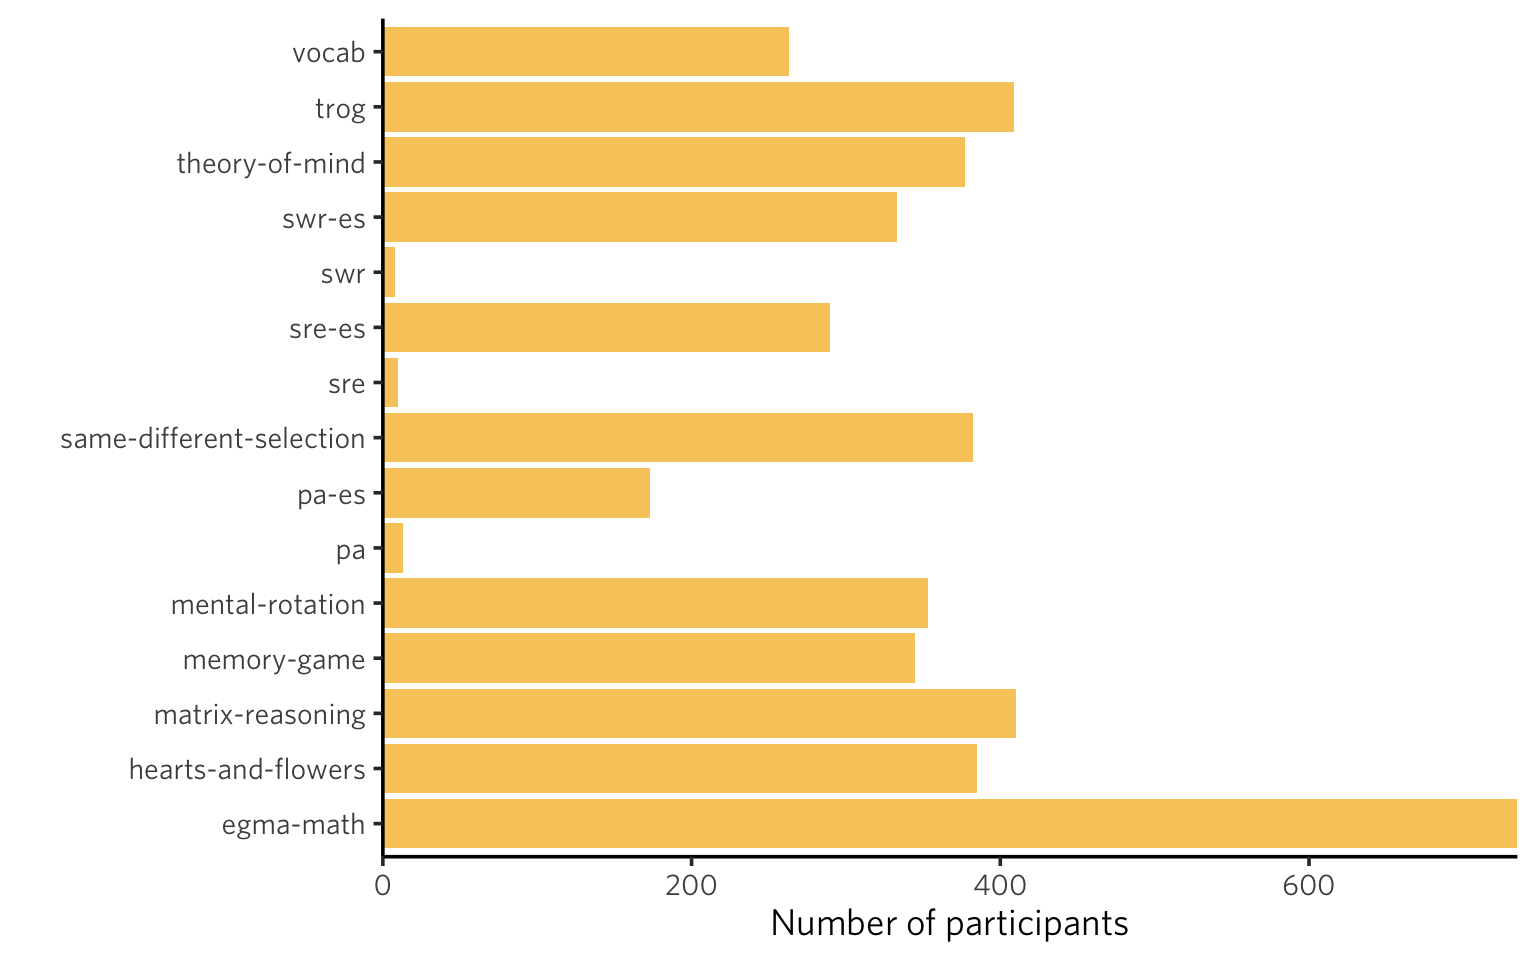
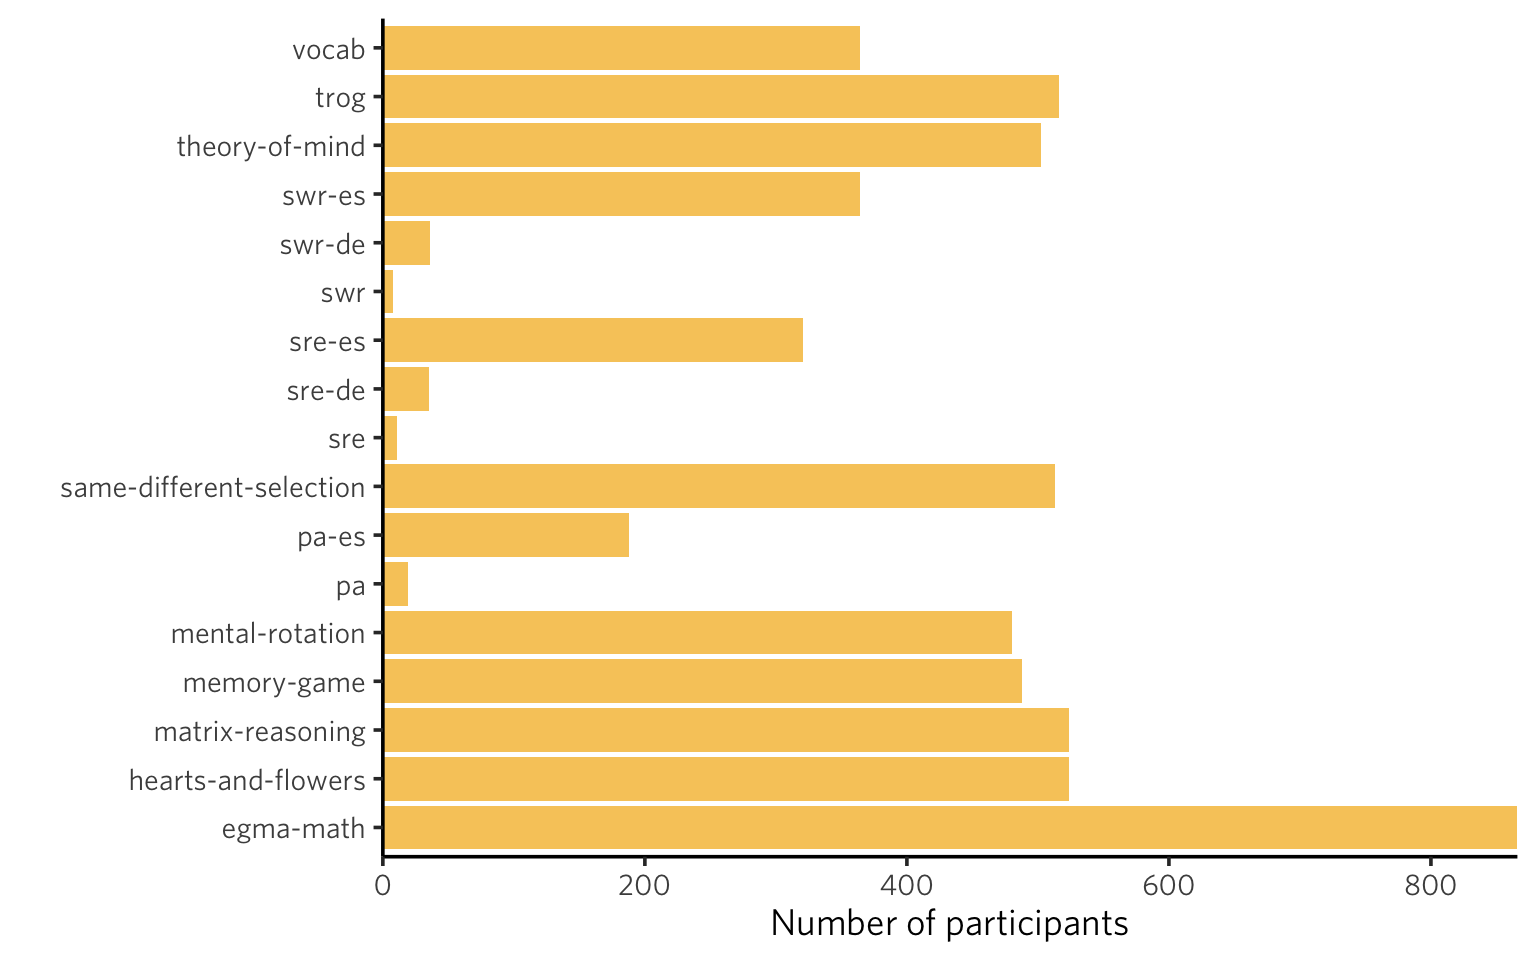
Built site for gh-pages

diff --git a/index.html b/index.html
@@ -89,7 +89,7 @@ Sites
 Participants
 </p>
 <p class="value-box-value">
-1202
+1404
 </p>
 </div>
 </div>
@@ -105,7 +105,7 @@ Participants
 Assessments
 </p>
 <p class="value-box-value">
-4538
+5831
 </p>
 </div>
 </div>

diff --git a/levante-data-dashboard.html b/levante-data-dashboard.html
@@ -89,7 +89,7 @@ Sites
 Participants
 </p>
 <p class="value-box-value">
-1202
+1404
 </p>
 </div>
 </div>
@@ -105,7 +105,7 @@ Participants
 Assessments
 </p>
 <p class="value-box-value">
-4538
+5831
 </p>
 </div>
 </div>
